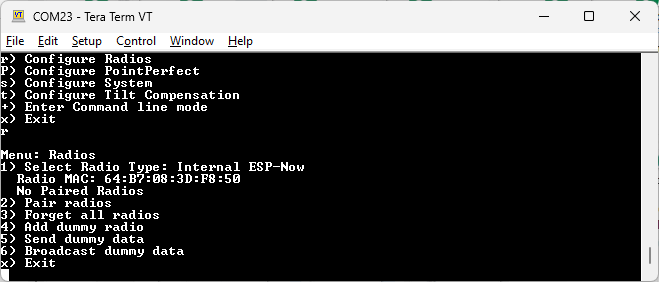
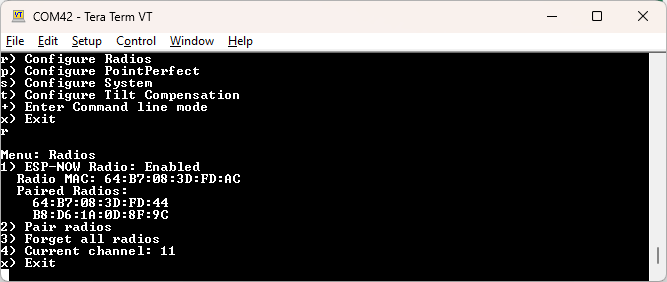
Docs: Update Radios Menu

diff --git a/docs/menu_radios.md b/docs/menu_radios.md
@@ -10,7 +10,7 @@ Torch: ![Feature Supported](img/Icons/GreenDot.png)
 
 Pressing 'r' from the main menu will open the Configure Radios menu. This allows a user to enable or disable the use of the internal ESP-Now radio.
 
-ESP-Now is a 2.4GHz protocol that is built into the internal ESP32 microcontroller; the same microcontroller that provides Bluetooth and WiFi. ESP-Now does not require WiFi or an Access Point. This is most useful for connecting a Base to Rover without the need for an external radio. Simply turn two SparkFun RTK products on, enable their radios, pair them, and data will be passed between units.
+ESP-Now is a 2.4GHz protocol that is built into the internal ESP32 microcontroller; the same microcontroller that provides Bluetooth and WiFi. ESP-Now does not require WiFi or an Access Point. This is most useful for connecting a Base to Rover (or multiple Rovers) without the need for an external radio. Simply turn two SparkFun RTK products on, enable their radios, pair them, and data will be passed between units.
 
 Additionally, ESP-Now supports point-to-multipoint transmissions. This means a Base can transmit to multiple Rovers simultaneously.
 
@@ -22,7 +22,7 @@ ESP-Now is a free radio included in every RTK product, and works well, but it ha
 
 2. Limited range. You can expect two RTK devices to be able to communicate approximately 250m (845 ft) line of sight but any trees, buildings, or objects between the Base and Rover will degrade reception. This range is useful for many applications but may not be acceptable for some applications. We recommend using ESP-Now as a quick, free, and easy way to get started with Base/Rover setups. If your application needs longer RF distances consider cellular NTRIP, WiFi NTRIP, or an external serial telemetry radio plugged into the **RADIO** port.
 
-3. Bug limited to Point to Point. There is a known bug in the ESP32 Arduino core that prevents a base from [transmitting to multiple rovers](https://github.com/espressif/esp-idf/issues/8992). This will be fixed in future releases of the RTK firmware once the ESP32 core is updated. For now, a base can be paired successfully with a single rover.
+3. ESP-Now can co-exist with WiFi, but both the receiver and transmitter must be on the same WiFi channel. 
 
 ## Pairing
 
@@ -34,10 +34,26 @@ On devices that have a display, pressing the Power/Setup button will display the
 
 *Radio configuration through WiFi*
 
-The radio system can be configured over WiFi. The radios subsystem is disabled by default. Enabling the radio to ESP-Now will expose the above options. The unit's radio MAC can be seen as well as a button to forget all paired radios. This button is disabled until the 'Enable Forget All Radios' checkbox is checked. The 'Broadcast Override' function changes all data transmitted by this radio to be sent to all radios in the vicinity, instead of only the radios it is paired with. This override feature is helpful if using a base that has not been paired: a base can transmit to multiple rovers regardless if they are paired or not.
+The radio system can be configured over WiFi. The radio subsystem is disabled by default. Enabling the radio to ESP-Now will expose the above options. The unit's radio MAC can be seen as well as a button to forget all paired radios. This button is disabled until the 'Enable Forget All Radios' checkbox is checked. The 'Broadcast Override' function changes all data transmitted by this radio to be sent to all radios in the vicinity, instead of only the radios it is paired with. This override feature is helpful if using a base that has not been paired: a base can transmit to multiple rovers regardless if they are paired or not.
 
 ![Radio menu showing ESP-Now](<img/Terminal/SparkFun RTK Everywhere - Radios Menu.png>)
 
 *Radio menu showing ESP-Now*
 
-A serial menu is also available. This menu allows users to enter pairing mode, view the unit's current Radio MAC, the MAC addresses of any paired radios, as well as the ability to remove all paired radios from memory.
+A serial menu is also available. This menu allows users to enter pairing mode, change the channel (ie, set of frequencies) used for communication, view the unit's current Radio MAC, the MAC addresses of any paired radios, as well as the ability to remove all paired radios from memory.
+
+## Setting the WiFi Channel
+
+![Radio menu showing ESP-Now](<img/Terminal/SparkFun RTK Everywhere - Radios Menu.png>)
+
+*Radio menu showing channel 11*
+
+All devices must be on the same WiFi channel to communicate over ESP-Now. Option **4 - Current channel** shows the current channel and allows a user to select a new one. Allowable channel numbers are 1 to 14. By default, devices will communicate on Channel 1. A user may select any channel they prefer.
+
+**Note:** ESP-Now can operate alongside WiFi but the user should be aware of the channel numbers of the devices. When a device connects to a WiFi network, the ESP-Now channel number may be altered by the WiFi radio so that the RTK device can communicate with the WiFi Access Point.
+
+Using a single device to communicate corrections to multiple devices (no WiFi involved) is the most common use case for ESP-Now.
+
+Using ESP-Now with a single device on WiFi is possible. Take the example of a Base that needs to communicate corrections over ESP-Now and will also be pushing the corrections to a Caster over NTRIP using WiFi: The Base is started, WiFi is activated, and the channel is overwritten to 9 (for example) when the device connects to the Access Point. All rovers in the area who wish to obtain corrections over ESP-Now also need to have their channels set to 9.
+
+Using multiple devices on *different* WiFi networks, while attempting to use ESP-Now, is likely impossible because the device's channel numbers will be modified to match the different channels of the Access Points.
